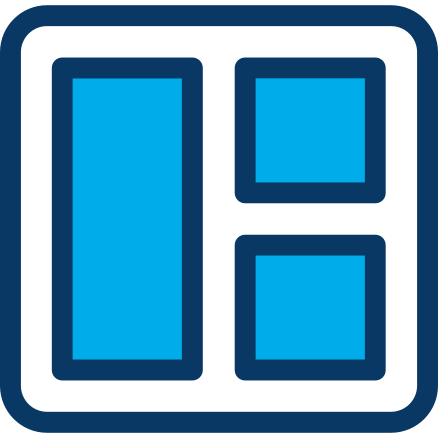
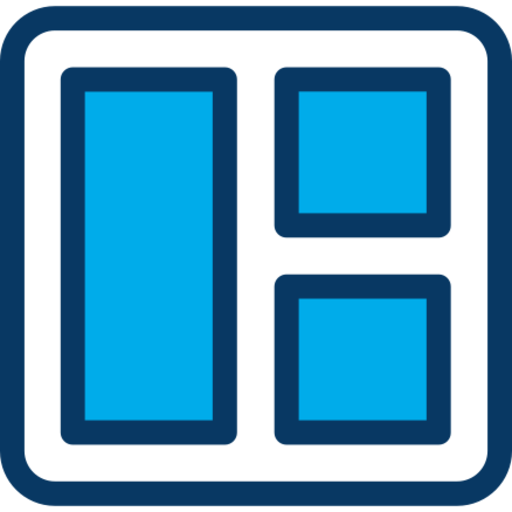
MODIFY Sidebar  -	GET Sidebar pics from netlify image transformations

diff --git a/src/Components/Sidebar.jsx b/src/Components/Sidebar.jsx
@@ -3,6 +3,7 @@ import Backdrop from "../UI/Backdrop";
 import { Container, NavList, NavListItem, NavMenu } from "../Styles/Sidebar";
 import { links } from "../utils";
 import * as Images from "../Assets";
+import { ImageUtils } from "../utils";
 
 export default function ({ mainRef }) {
 	const [menu, showMenu] = useState(false);
@@ -36,7 +37,6 @@ export default function ({ mainRef }) {
 			handlers.checkScrolling();
 		});
 		return () => {
-			// mainRef.current.removeEventListener("scroll", () => {});
 			handlers.checkScrolling();
 		};
 	}, [handlers, mainRef]);
@@ -59,7 +59,7 @@ const NavListElement = ({ reference, scroll }) => (
 		{links.map((link, index) => (
 			<NavListItem className={!index && "active"} key={link} rel={link} onClick={() => scroll(link)} icon={Images[link]}>
 				<span>{link}</span>
-				<img src={Images[link]} alt={link} loading='lazy' />
+				<img src={ImageUtils.resizeImage(Images[link], "smartcrop", 25, 25)} alt={link} loading='lazy' />
 			</NavListItem>
 		))}
 	</NavList>

diff --git a/src/utils/index.js b/src/utils/index.js
@@ -25,3 +25,5 @@ export const know = [
 export const tools = ["Git", "GitHub", "VS Code", "Adobe XD", "FireBase", "MongoDB", "Netlify", "Heroku"];
 export const learning = ["TypeScript", "Python", "Django"];
 export const interests = ["Web Development", "UI Designing", "Data Science", "Problem Solving", "Gardening"];
+
+export { default as ImageUtils } from "./TransformImages";

diff --git a/src/utils/TransformImages.js b/src/utils/TransformImages.js
@@ -1,0 +1,5 @@
+const resizeImage = (image, type = "fit", w = 25, h = 25) => `${image}?nf_resize=${type}&w=${w}&h=${h}`;
+
+export default {
+	resizeImage,
+};
